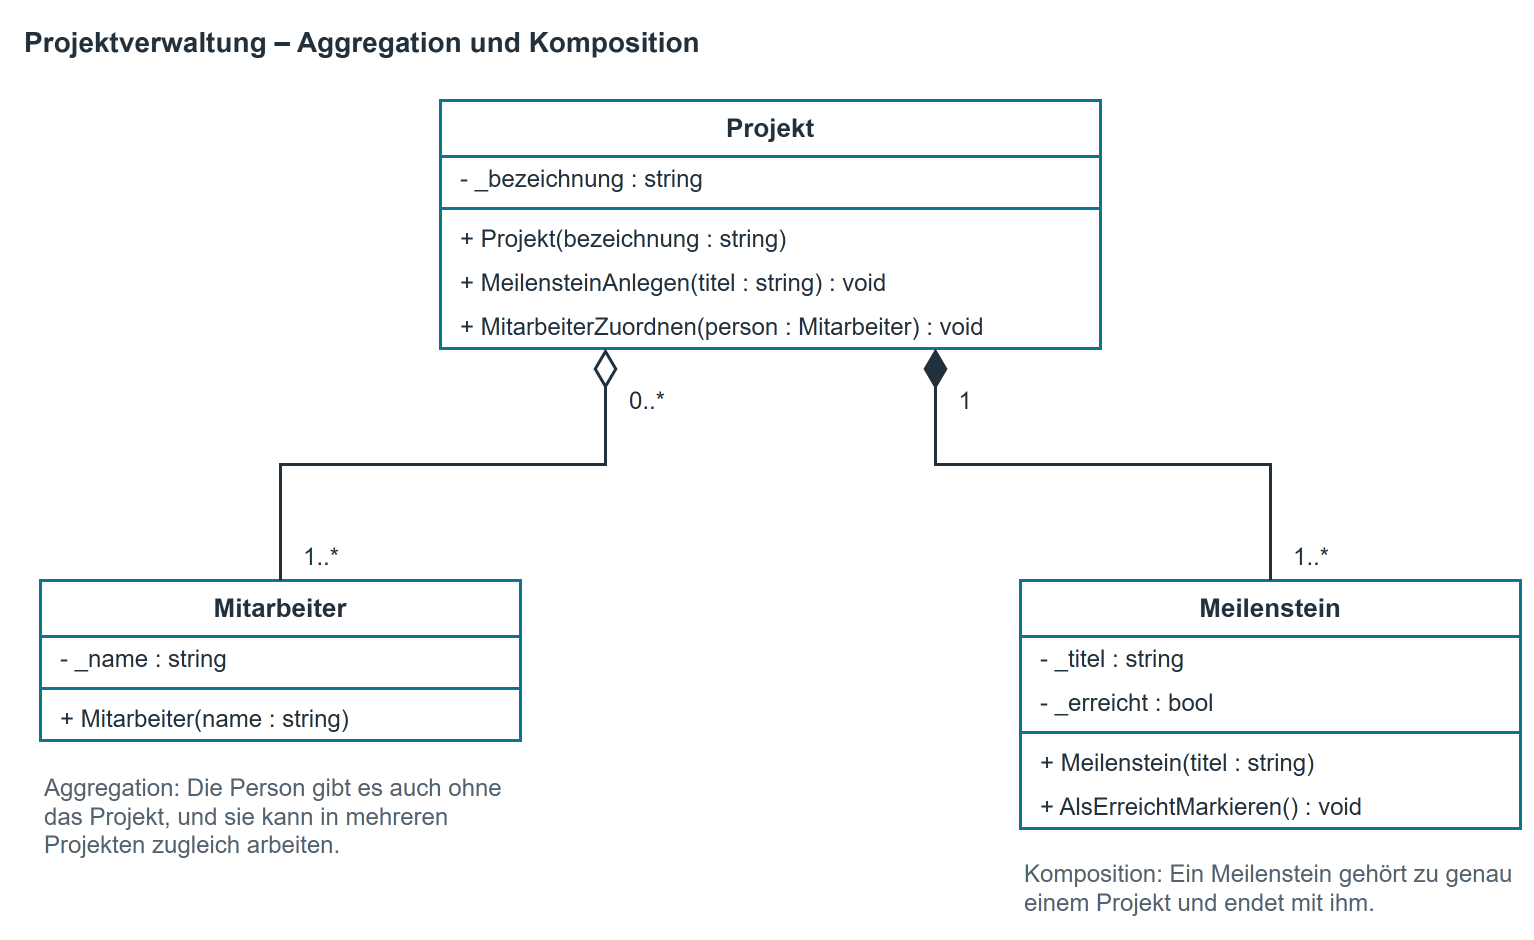
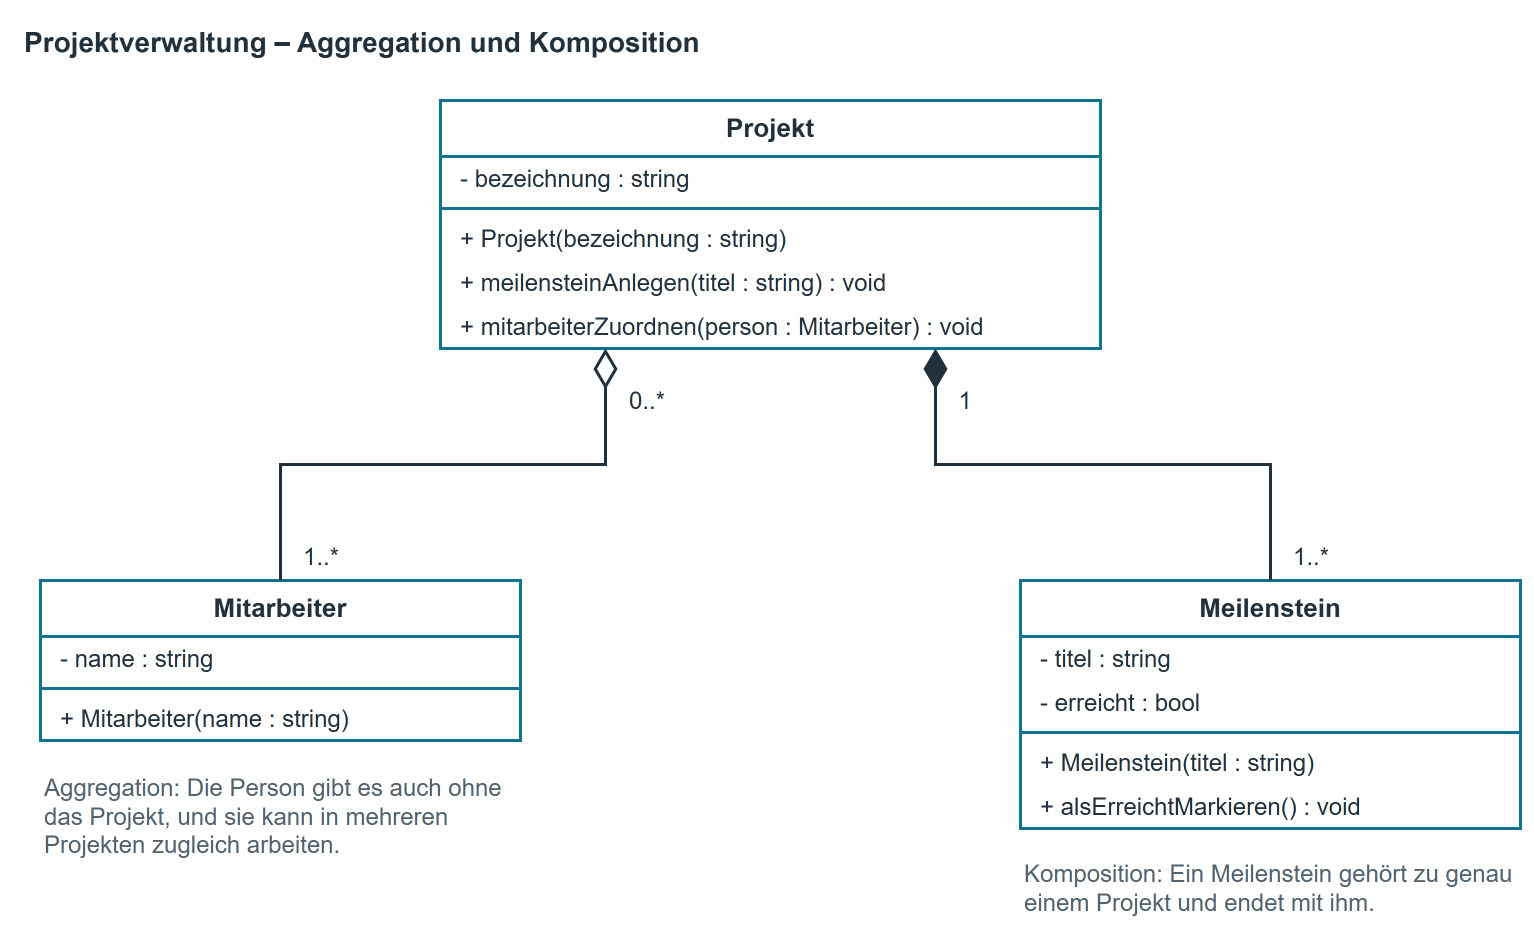
docs: write class diagram members language-neutral
Attributes and operations start lowercase and drop the C# underscore
(lowerCamelCase); classes and constructors stay uppercase. A private
field and its property become one attribute, as the page's info box
already required.

- Klassendiagramm: both example diagrams redrawn and re-exported,
  notation table, info box "Vom C#-Quelltext ins Diagramm", check
  question 2, quick reference and typical mistakes updated
- Reflection and Serialisierung: Mermaid diagrams converted, each with
  a note on how the names read in C# code, reflection output and JSON

diff --git a/docs/methoden/uml/klassendiagramm.md b/docs/methoden/uml/klassendiagramm.md
@@ -28,8 +28,8 @@ Beide Richtungen benutzen dieselbe Notation.
 | Element | Bedeutung |
 |--------------------------------------|-------------------------------------------------------------|
 | Klasse (Rechteck mit drei Feldern) | Oben der Name (Einzahl, groß), in der Mitte die Attribute, unten die Operationen. Leere Felder dürfen wegfallen, die Reihenfolge nicht. |
-| Attribut | `sichtbarkeit name : Typ`, z. B. `- _plaetze : int`. Ein fester Anfangswert wird angehängt: `= 5000,00`. |
-| Operation | `sichtbarkeit name(parameter : Typ) : Rückgabetyp`, z. B. `+ PlatzBelegen() : bool`. Gibt sie nichts zurück, steht dort `void`. |
+| Attribut | `sichtbarkeit name : Typ`, z. B. `- belegt : int`. Der Name beginnt klein, ohne Unterstrich. Ein fester Anfangswert wird angehängt: `= 5000,00`. |
+| Operation | `sichtbarkeit name(parameter : Typ) : Rückgabetyp`, z. B. `+ platzBelegen() : bool`. Der Name beginnt klein. Gibt sie nichts zurück, steht dort `void`. |
 | Sichtbarkeit | `-` privat (nur innerhalb der Klasse), `+` öffentlich (von außen benutzbar), `#` geschützt (Klasse und Unterklassen). |
 | Assoziation (durchgezogene Linie) | Die eine Klasse kennt die andere dauerhaft, weil sie ein Feld von diesem Typ hat. |
 | Aggregation (leere Raute am Ganzen) | Ein Teil-Ganzes-Verhältnis. Das Teil kann auch ohne das Ganze bestehen. |
@@ -38,7 +38,13 @@ Beide Richtungen benutzen dieselbe Notation.
 | Abhängigkeit (gestrichelter Pfeil) | Die eine Klasse benutzt die andere nur vorübergehend, meist als Parameter oder Rückgabewert, und speichert sie nicht. |
 | Multiplizität | Steht an beiden Enden einer Verbindung: `1`, `0..1`, `1..*`, `0..*`. |
 
-!!! info "Regel für C#-Eigenschaften"
+!!! info "Vom C#-Quelltext ins Diagramm"
+    Ein Klassendiagramm ist unabhängig von der Programmiersprache. Klassennamen beginnen groß,
+    Attribute und Operationen klein; besteht ein Name aus mehreren Wörtern, beginnt jedes weitere
+    Wort groß (`platzBelegen()`). Die Schreibweisen von C# bleiben im Quelltext: Aus dem Feld
+    `_plaetze` wird im Diagramm `plaetze`, aus der Methode `IstFrei()` wird `istFrei()`. Nur der
+    Konstruktor heißt wie die Klasse und beginnt deshalb groß.
+
     Ein privates Feld mit einer öffentlichen Eigenschaft (property)
     davor wird als **ein** Attribut mit der Sichtbarkeit der Eigenschaft dargestellt; das Feld
     dahinter ist eine Umsetzungsfrage. Gibt es nur einen lesenden Zugriff, wird `{nur lesen}`
@@ -86,7 +92,7 @@ Drei Punkte lohnen einen zweiten Blick:
 - Zwischen `Lizenz` und `Arbeitsplatz` steht eine Assoziation `0..*` zu `0..*`: Ein Arbeitsplatz
   kann mehrere Lizenzen belegen, eine Netzwerklizenz mehrere Arbeitsplätze bedienen.
 - `Einzelplatzlizenz` und `Netzwerklizenz` erben Schlüssel, Plätze und alle Operationen. Sie
-  unterscheiden sich nur darin, wie sie `IstFrei()` beantworten. Genau dafür ist die
+  unterscheiden sich nur darin, wie sie `istFrei()` beantworten. Genau dafür ist die
   Generalisierung da: Was gleich ist, steht einmal.
 
 ## Aggregation oder Komposition
@@ -166,7 +172,9 @@ finden die meisten Abweichungen:
 
 1. Steht jede Klasse des Diagramms im Quelltext — und umgekehrt jede Klasse des Quelltextes im
    Diagramm?
-2. Stimmen Namen, Typen und Sichtbarkeiten der Attribute und Operationen?
+2. Stimmen Namen, Typen und Sichtbarkeiten der Attribute und Operationen? Verglichen wird ohne
+   Unterstrich und ohne Rücksicht auf den ersten Buchstaben: `_titel` im Quelltext ist `titel` im
+   Diagramm.
 3. Ist jede eingezeichnete Verbindung an einer Zeile belegbar? Steht dort ein Feld dieses Typs?
 4. Stimmen die Multiplizitäten mit dem, was der Quelltext zulässt? Eine Liste erlaubt `0..*`,
    auch wenn in der Praxis nie mehr als drei drin sind.
@@ -183,7 +191,7 @@ an den Quelltext angepasst; die Abweichung ist das Ergebnis.
 
 | Prüfen Sie zum Schluss | Frage |
 |--------------------|-------------------------------------------------------------|
-| Namen | Steht jeder Klassenname in der Einzahl und groß geschrieben? |
+| Namen | Steht jeder Klassenname in der Einzahl und groß geschrieben? Beginnen Attribute und Operationen klein und ohne Unterstrich? |
 | Drei Felder | Hat jede Klasse Name, Attribute und Operationen in dieser Reihenfolge? |
 | Sichtbarkeit | Steht vor jedem Attribut und jeder Operation `+`, `-` oder `#`? |
 | Typen | Hat jedes Attribut einen Typ und jede Operation einen Rückgabetyp? |
@@ -193,6 +201,7 @@ an den Quelltext angepasst; die Abweichung ist das Ergebnis.
 | Beleg | Lässt sich jede Verbindung an einer Zeile oder einem Satz belegen? |
 | Kein Ablauf | Steht im Diagramm versehentlich eine Reihenfolge? Die gehört ins Aktivitätsdiagramm. |
 
-Typische Fehler: Klassennamen in der Mehrzahl („Kunden"); ein Attribut, das in Wirklichkeit eine
+Typische Fehler: Klassennamen in der Mehrzahl („Kunden"); Namen aus dem C#-Quelltext mit
+Unterstrich oder großem Anfangsbuchstaben übernommen (`_name`, `IstFrei()`); ein Attribut, das in Wirklichkeit eine
 eigene Klasse ist; Multiplizität nur an einem Ende; Komposition, wo eine einfache Assoziation
 gemeint ist; Pfeile zwischen Klassen, die einen Ablauf meinen.

diff --git a/docs/reflection/klasse-mitarbeiter.md b/docs/reflection/klasse-mitarbeiter.md
@@ -5,18 +5,21 @@ Dieses Kapitel verwendet die Beispielklasse `Mitarbeiter` mit privaten Attribute
 ```mermaid
 classDiagram
     class Mitarbeiter {
-        - string _vorname
-        - string _nachname
-        - double _gehalt
-        - string _arbeitsort
-        «property» + string Vorname
-        «property» + string Nachname
-        «property» + double Gehalt
-        «property» + string Arbeitsort
+        + vorname : string
+        + nachname : string
+        + gehalt : double
+        + arbeitsort : string
         + Mitarbeiter()
-        + Mitarbeiter(string vorname, string nachname, double gehalt, string arbeitsort)
-        + void AnzeigenInformationen()
-        + void ErhoeheGehalt(double betrag)
-        + double BerechneJahresgehalt()
+        + Mitarbeiter(vorname : string, nachname : string, gehalt : double, arbeitsort : string)
+        + anzeigenInformationen() void
+        + erhoeheGehalt(betrag : double) void
+        + berechneJahresgehalt() double
     }
 ```
+
+Das Diagramm schreibt die Namen sprachneutral wie auf der Seite
+[Klassendiagramm](../methoden/uml/klassendiagramm.md): Ein privates Feld mit seiner Property ist
+**ein** Attribut, klein und ohne Unterstrich. Im C#-Code heißen die privaten Felder `_vorname`,
+`_nachname`, `_gehalt` und `_arbeitsort`, die Properties `Vorname`, `Nachname`, `Gehalt` und
+`Arbeitsort`, und die Methoden beginnen groß (`AnzeigenInformationen()`). Genau diese Namen
+liefert Reflection: `GetFields()` die Felder, `GetProperties()` die Properties.

diff --git a/docs/serialisierung/index.md b/docs/serialisierung/index.md
@@ -62,11 +62,15 @@ Auf beiden Folgeseiten wird dieselbe einfache Beispielklasse verwendet. So läss
 ```mermaid
 classDiagram
     class WeatherForecast {
-        «property» + DateTimeOffset Date
-        «property» + int TemperatureCelsius
-        «property» + string? Summary
+        + date : DateTimeOffset
+        + temperatureCelsius : int
+        + summary : string?
     }
 ```
+
+Im Diagramm stehen die Namen sprachneutral klein (siehe [Klassendiagramm](../methoden/uml/klassendiagramm.md)).
+Im C#-Code heißen die Properties `Date`, `TemperatureCelsius` und `Summary`; unter diesen Namen
+stehen sie, wenn nichts anderes eingestellt ist, auch in JSON und XML.
 
 ```csharp
 public class WeatherForecast
